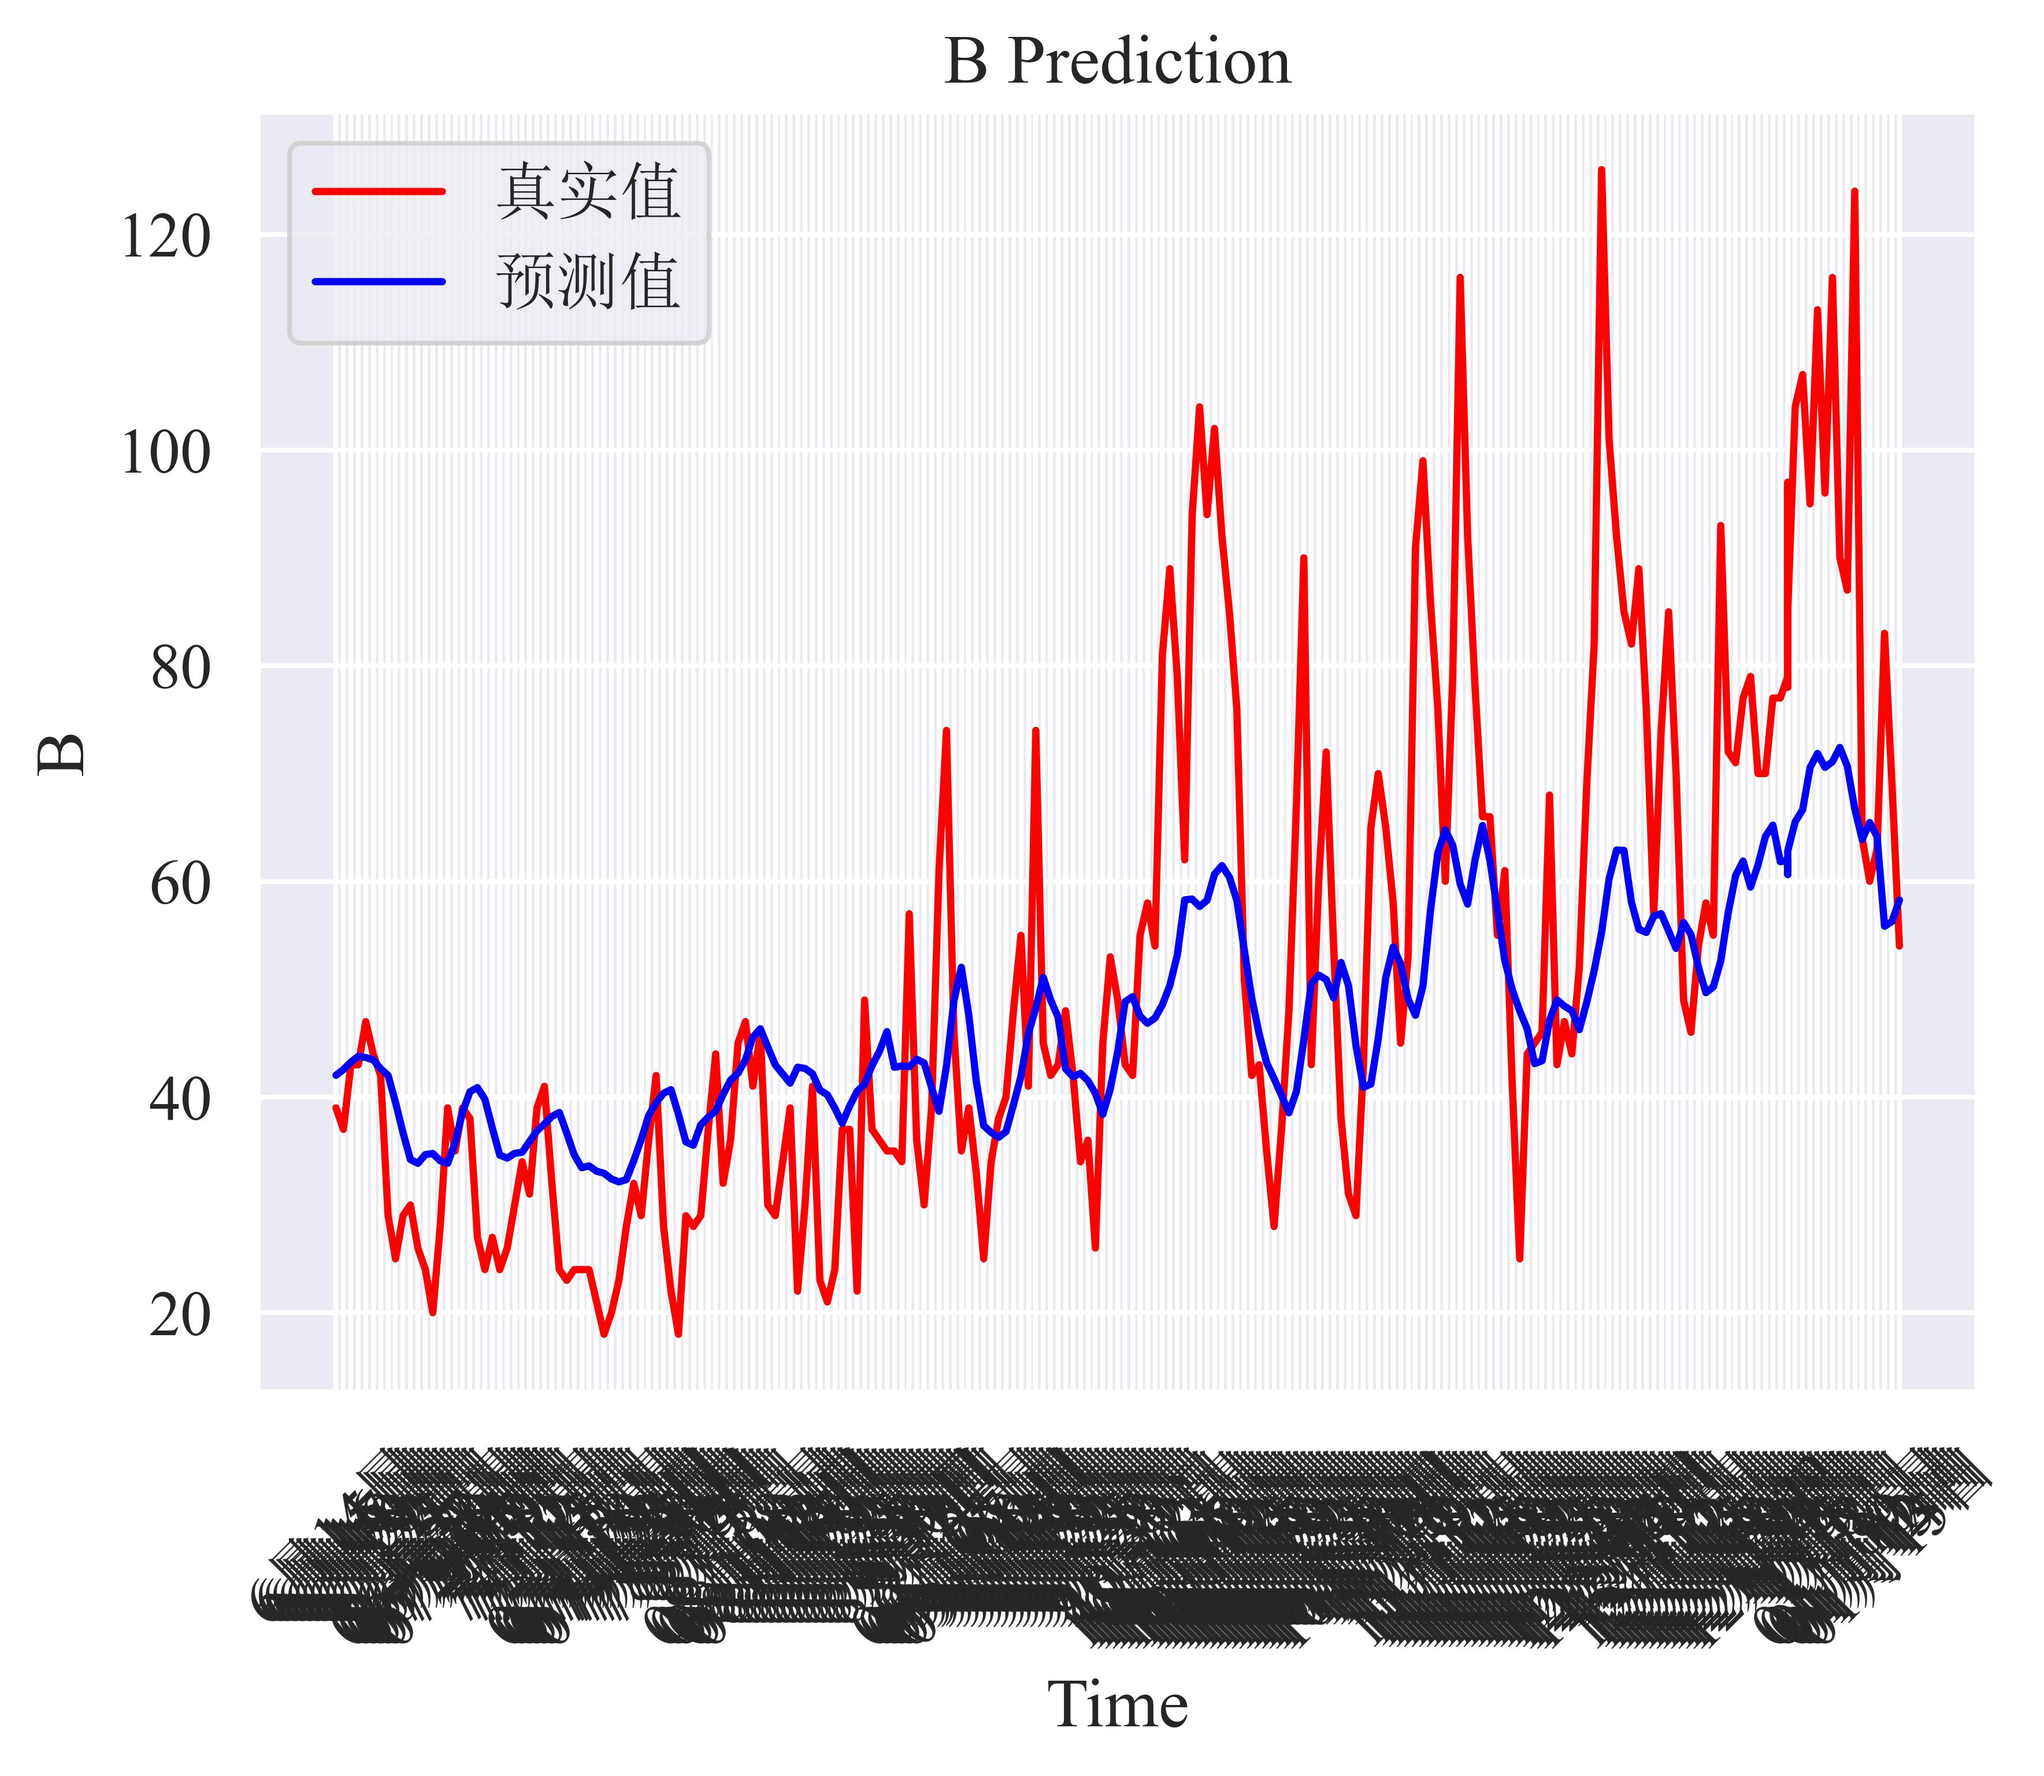
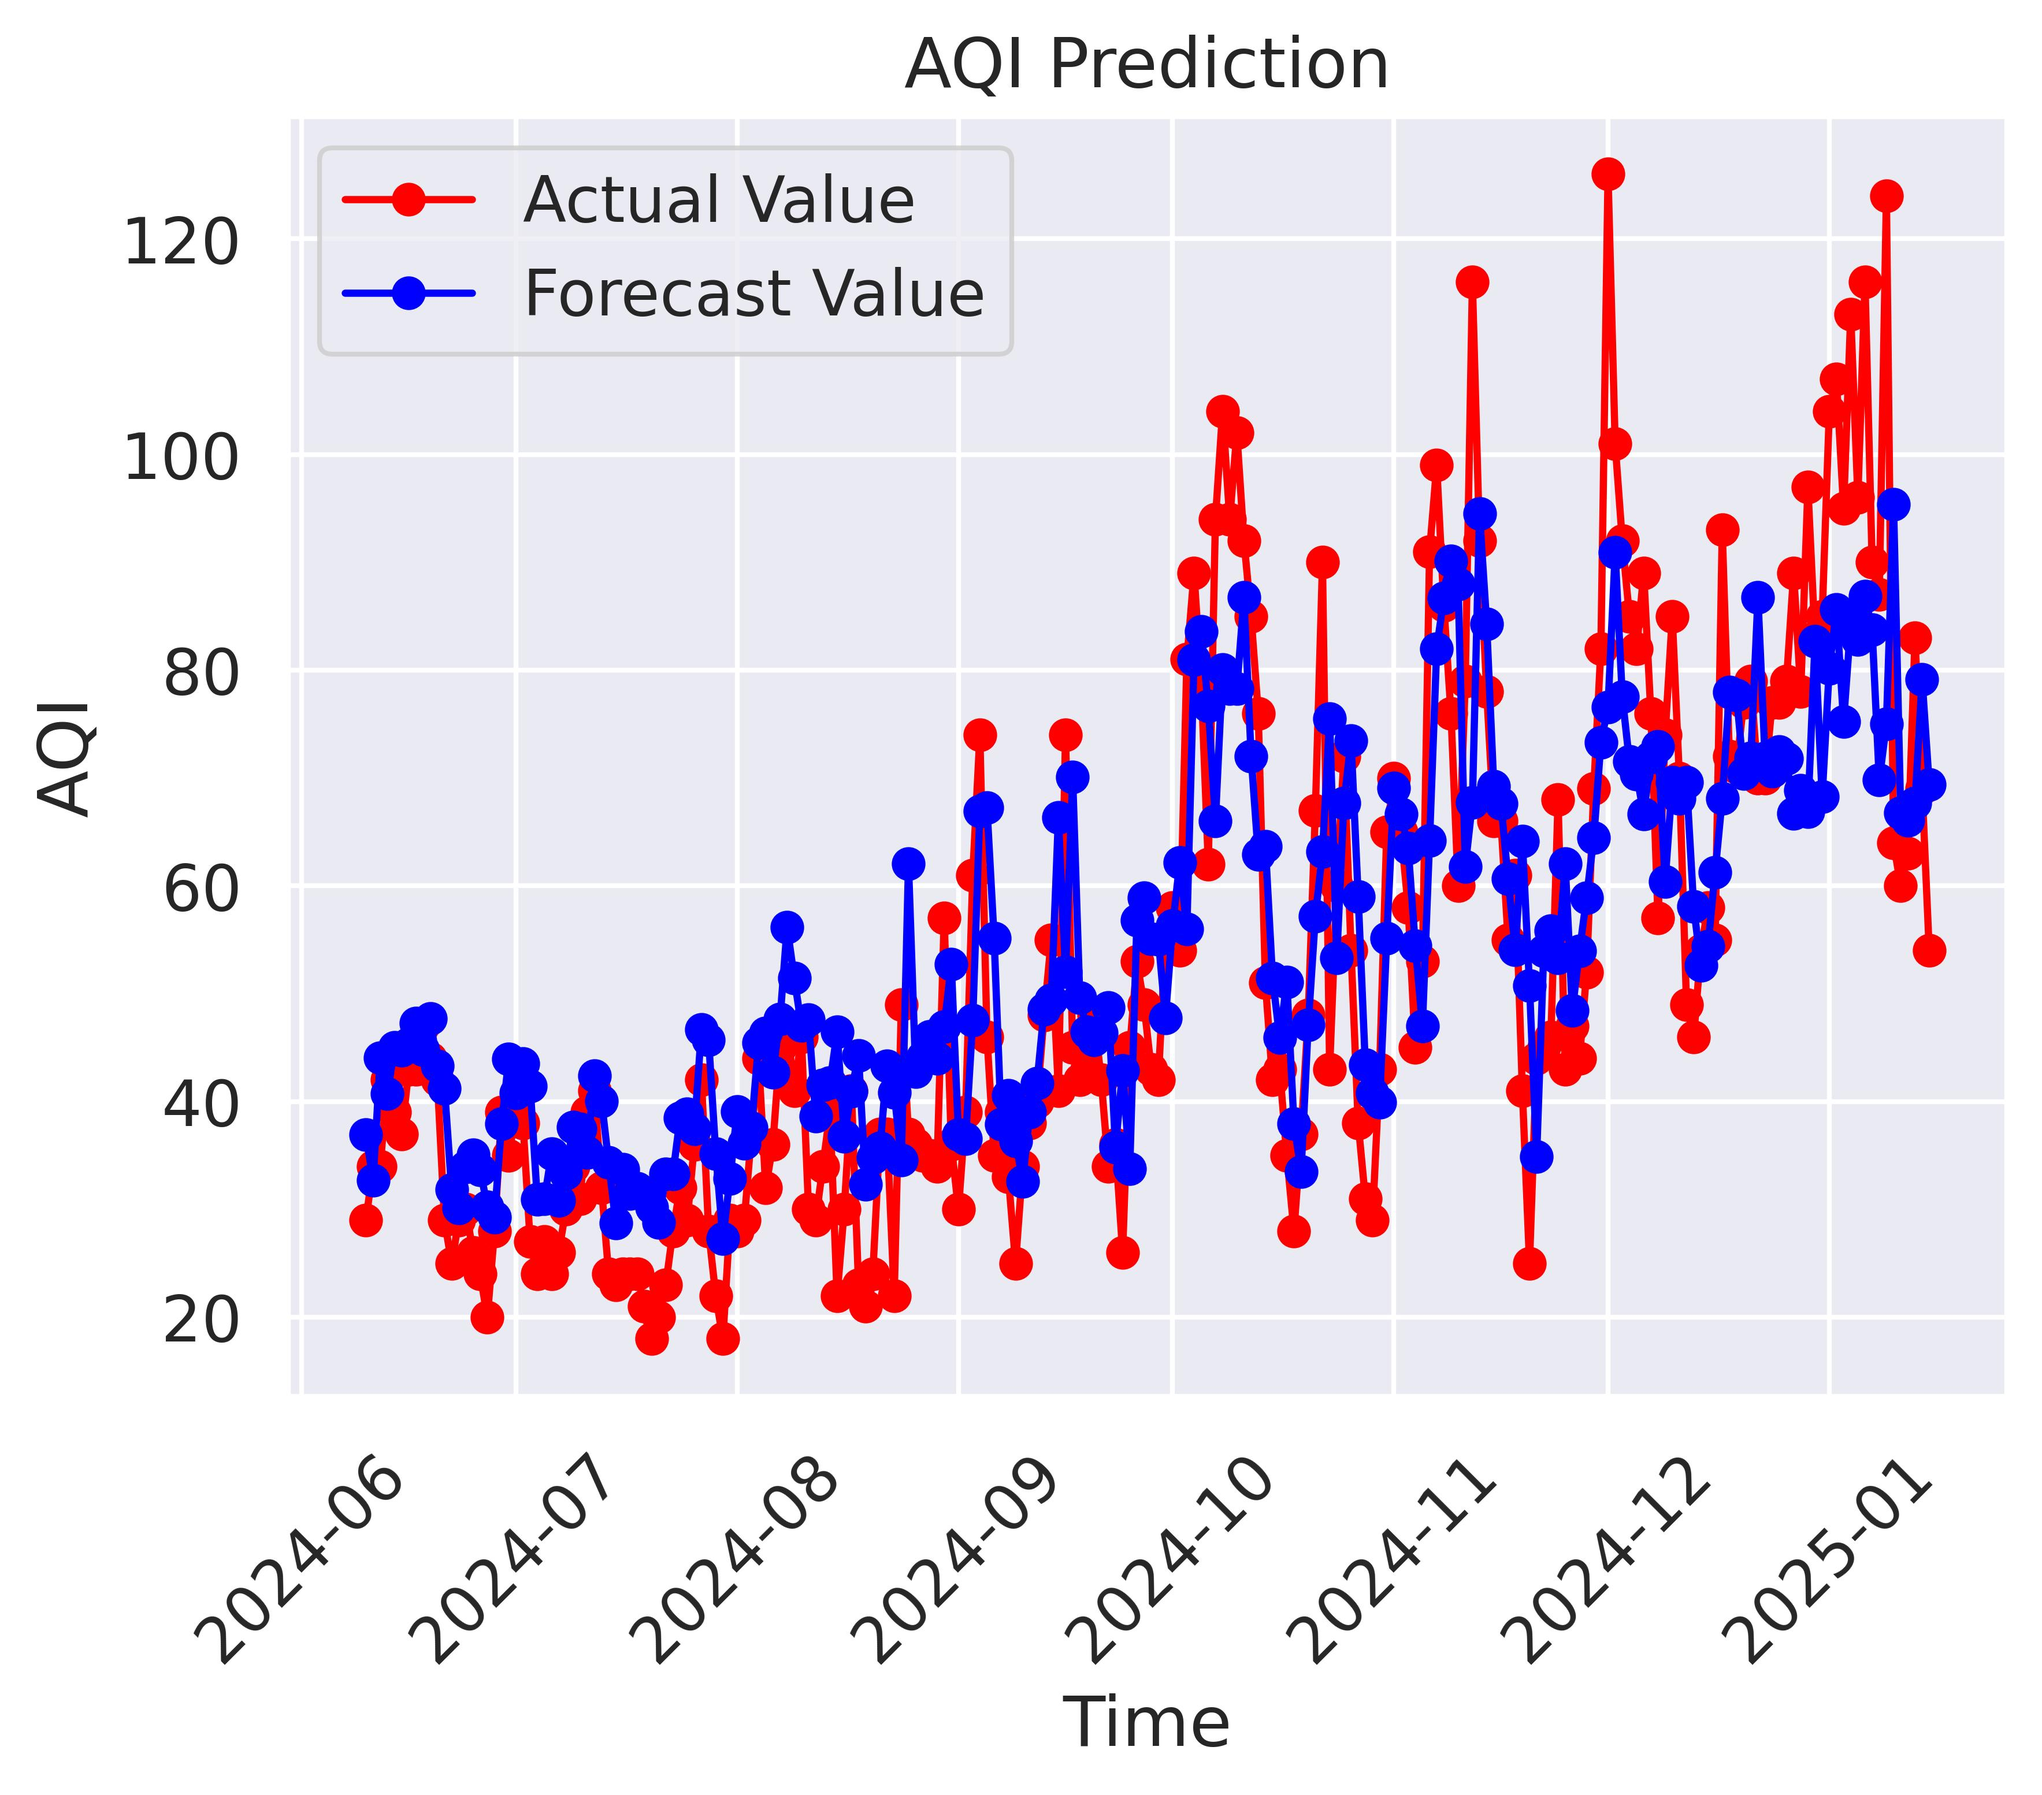
feat():update code

diff --git a/src/订单/单子-暴暴蓝/code/LSTM-V2.py b/src/订单/单子-暴暴蓝/code/LSTM-V2.py
@@ -23,41 +23,36 @@ from keras.layers.merging.concatenate import concatenate
 # 读取数据
 base_dir = os.path.dirname(os.path.dirname(os.path.abspath(__file__)))
 
-df = pd.read_excel(os.path.join(base_dir,'data','湛江市空气质量数据.xlsx'))
-# df = df.iloc[5:]
-# print(df)
-df = df[1707:]
-df = df.iloc[:, 0:8]
-df.columns = ['日期', '二氧化硫（SO2）','二氧化氮（NO2）',
-              '可吸入颗粒物（PM10）','一氧化碳（CO）','臭氧（O3-8h）',
-              '细颗粒物（PM2.5）','空气质量指数（AQI）']
+df = pd.read_excel(os.path.join(base_dir,'data','相关性分析.xlsx'))
+df = df.drop(index=0)
+df = df.iloc[:, :8]
 print(df)
-df["日期"] = df["日期"].str.extract(r'\((.*?)\)')  # 提取括号内的内容
-print("\n转换后的DataFrame:")
-print(df)
+print(df.isnull().sum())
+
 
 df.set_index('日期', inplace=True)
 df.insert(0, '空气质量指数（AQI）', df.pop('空气质量指数（AQI）'))
-
+df = df.interpolate(method="linear")
+print(df.isnull().sum())
 print(df.shape)
-print(df)
-print(df.isnull().any())
+print(df.head())
 fea_num = len(df.columns)
 
 # 数据划分
 test_split=round(len(df)*0.20)
 df_for_training=df[:-test_split]
 df_for_testing=df[-test_split:]
+print(len(df_for_training), len(df_for_testing))
 
 # 绘制训练集和测试集的折线图
 sns.set(font_scale=1.2)
 plt.rc('font', family=['Times New Roman', 'SimSun'], size=12)
 plt.figure(figsize=(10, 6))
-plt.plot(list(df_for_training['空气质量指数（AQI）']), label='Training Data')
-# plt.plot(list(df_for_testing['空气质量指数（AQI）']), label='Testing Data')
-plt.xlabel('datetime')
-plt.ylabel('value')
-plt.title('Training and Testing Data')
+plt.plot(df_for_training.index, list(df_for_training['空气质量指数（AQI）']), label='Training set')
+plt.plot(df_for_testing.index, list(df_for_testing['空气质量指数（AQI）']), label='Test set')
+plt.xlabel('Time Series')
+plt.ylabel('AQI')
+plt.title('Training set and Test set')
 plt.legend()
 plt.savefig(os.path.join(base_dir, 'result', 'lstm_train_and_test.jpg'), bbox_inches='tight', dpi = 600)
 plt.show()
@@ -74,7 +69,7 @@ def createXY(dataset,n_past):
             dataY.append(dataset[i,0])
     return np.array(dataX),np.array(dataY)
 
-window_size = 3
+window_size = 2
 trainX,trainY=createXY(df_for_training_scaled,window_size)
 testX,testY=createXY(df_for_testing_scaled,window_size)
 
@@ -98,47 +93,57 @@ my_model.add(Dropout(0.2))
 my_model.add(Dense(1))
 my_model.summary()
 
-
-
 my_model.compile(loss='mse', optimizer='adam', metrics=['accuracy'])
-my_model.fit(trainX, trainY)
+my_model.fit(trainX, trainY, batch_size=10, epochs=100)
 
 prediction_test=my_model.predict(testX)
 prediction_train=my_model.predict(trainX)
+
+# 训练集绝对误差
 prediction_train_copies_array = np.repeat(prediction_train,fea_num, axis=-1)
 pred_train=scaler.inverse_transform(np.reshape(prediction_train_copies_array,(len(prediction_train),fea_num)))[:,0]
-
-
 original_train_copies_array = np.repeat(trainY, fea_num, axis=-1)
 original_train=scaler.inverse_transform(np.reshape(original_train_copies_array,(len(trainY),fea_num)))[:,0]
 print("train Pred Values-- ", pred_train)
 print("\ntrain Original Values-- ", original_train)
-plt.plot(list(df_for_training.index[window_size:,]), original_train, color = 'red', label = '真实值')
-plt.plot(list(df_for_training.index[window_size:,]), pred_train, color = 'blue', label = '预测值')
-plt.title('B Prediction')
+plt.plot(df_for_training.index[window_size:,], original_train, color = 'red', marker='o', label = 'Actual Value')
+plt.plot(df_for_training.index[window_size:,], pred_train, color = 'blue', marker='o', label = 'Forecast Value')
+plt.title('AQI Prediction')
 plt.xlabel('Time')
 plt.xticks(rotation=45)
-plt.ylabel('B')
+plt.ylabel('AQI')
 plt.legend()
 plt.savefig(os.path.join(base_dir, 'result', 'lstm_pred_train.jpg'), bbox_inches='tight', dpi = 600)
 plt.show()
 
-
+# 测试集绝对误差
 prediction_test_copies_array = np.repeat(prediction_test,fea_num, axis=-1)
 pred_test=scaler.inverse_transform(np.reshape(prediction_test_copies_array,(len(prediction_test),fea_num)))[:,0]
 original_test_copies_array = np.repeat(testY, fea_num, axis=-1)
 original_test=scaler.inverse_transform(np.reshape(original_test_copies_array,(len(testY),fea_num)))[:,0]
 print("test Pred Values-- ", pred_test)
 print("\ntest Original Values-- ", original_test)
-plt.plot(list(df_for_testing.index[window_size:,]), original_test, color = 'red', label = '真实值')
-plt.plot(list(df_for_testing.index[window_size:,]), pred_test, color = 'blue', label = '预测值')
-plt.title('B Prediction')
+plt.plot(df_for_testing.index[window_size:,], original_test, color = 'red', marker='o', label = 'Actual Value')
+plt.plot(df_for_testing.index[window_size:,], pred_test, color = 'blue', marker='o', label = 'Forecast Value')
+plt.title('AQI Prediction')
 plt.xlabel('Time')
 plt.xticks(rotation=45)
-plt.ylabel('B')
+plt.ylabel('AQI')
 plt.legend()
 plt.savefig(os.path.join(base_dir, 'result', 'lstm_pred_test.jpg'), bbox_inches='tight', dpi = 600)
 plt.show()
+# 测试集相对误差
+relative_error = (pred_test-original_test)/original_test
+print(relative_error)
+plt.plot(df_for_testing.index[window_size:,], relative_error, marker='o')
+plt.title('LSTM Model Forecast Relative Error')
+plt.xlabel('Time')
+plt.xticks(rotation=45)
+plt.ylabel('Relative Error(%)')
+plt.legend()
+plt.savefig(os.path.join(base_dir, 'result', 'lstm_relative_error.jpg'), bbox_inches='tight', dpi = 600)
+plt.show()
+
 
 # 计算误差
 testScore1 = math.sqrt(mean_squared_error(original_test, pred_test))
@@ -149,6 +154,8 @@ testScore3 = r2_score(original_test, pred_test)
 print('Test Score: %.2f R2' % (testScore3))
 testScore4 = mean_absolute_percentage_error(original_test, pred_test)
 print('Test Score: %.2f MAPE' % (testScore4))
+testScore5 = mean_squared_error(original_test, pred_test)
+print('Test Score: %.2f MSE' % (testScore5))
 
 trainScore1 = math.sqrt(mean_squared_error(original_train, pred_train))
 print('train Score: %.2f RMSE' % (trainScore1))
@@ -158,15 +165,19 @@ trainScore3 = r2_score(original_train, pred_train)
 print('train Score: %.2f R2' % (trainScore3))
 trainScore4 = mean_absolute_percentage_error(original_train, pred_train)
 print('train Score: %.2f MAPE' % (trainScore4))
+trainScore5 = mean_squared_error(original_train, pred_train)
+print('Test Score: %.2f MSE' % (trainScore5))
 
-# df = pd.DataFrame({'Test Score: %.2f RMSE': [testScore1],
-#                    'Test Score: %.2f MAE': [testScore2],
-#                    'Test Score: %.2f R2': [testScore3],
-#                    'Test Score: %.2f MAPE': [testScore4],
-#                    'Train Score: %.2f RMSE': [trainScore1],
-#                    'Train Score: %.2f MAE': [trainScore2],
-#                    'Train Score: %.2f R2': [trainScore3],
-#                    'Train Score: %.2f MAPE': [trainScore4]
-#                    })
-#
-# df.to_excel(os.path.join(base_dir, 'result', 'lstm.xlsx'), index=False)
+df = pd.DataFrame({'Test Score: %.2f RMSE': [testScore1],
+                   'Test Score: %.2f MAE': [testScore2],
+                   'Test Score: %.2f R2': [testScore3],
+                   'Test Score: %.2f MAPE': [testScore4],
+                   'Test Score: %.2f MSE': [testScore5],
+                   'Train Score: %.2f RMSE': [trainScore1],
+                   'Train Score: %.2f MAE': [trainScore2],
+                   'Train Score: %.2f R2': [trainScore3],
+                   'Train Score: %.2f MAPE': [trainScore4],
+                   'Train Score: %.2f MSE': [trainScore5]
+                   })
+
+df.to_excel(os.path.join(base_dir, 'result', 'lstm-v2.xlsx'), index=False)
